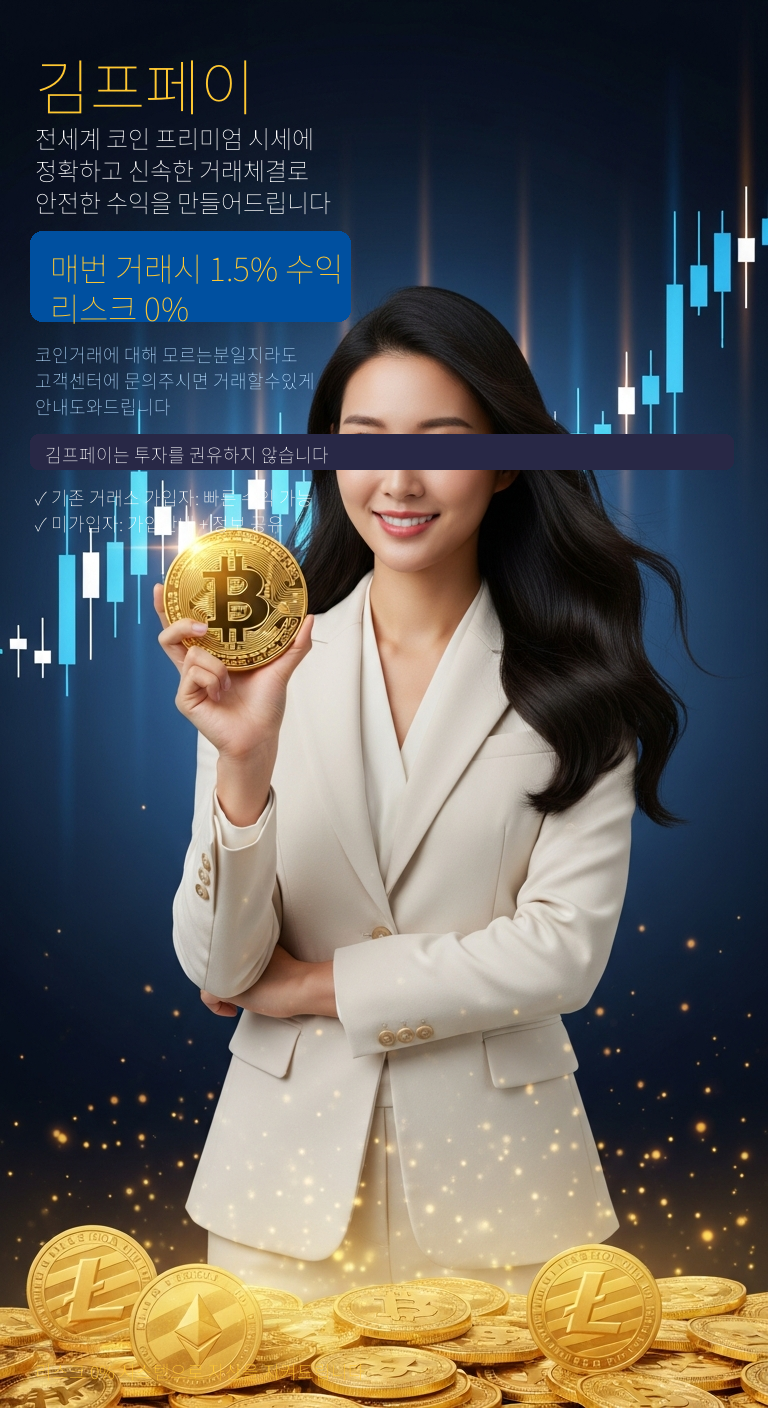
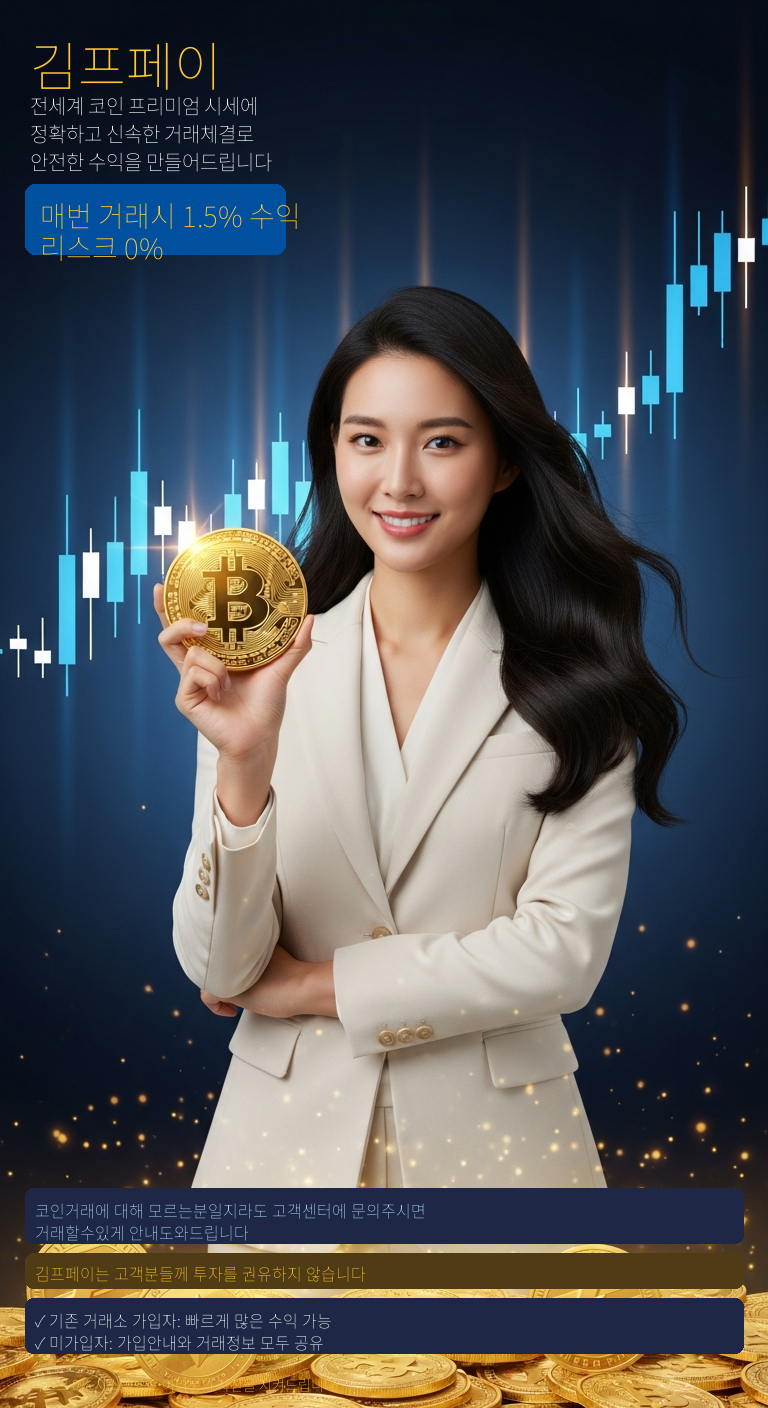
Improve text layout and readability on promotional image
Adjust font sizes, reposition text elements for better visual hierarchy and spacing, and update the Korean text content within the `add_korean_text.py` script to enhance the overall aesthetic and clarity of the promotional image.

Replit-Commit-Author: Agent
Replit-Commit-Session-Id: 337bff7e-522e-4724-8296-76832bff74b9
Replit-Commit-Checkpoint-Type: full_checkpoint
Replit-Commit-Event-Id: 4bbeca22-a287-4022-844d-c67cf83435c3
Replit-Commit-Screenshot-Url: https://storage.googleapis.com/screenshot-production-us-central1/21bf0bfb-32a1-4580-afd2-f0c5e86b27e5/337bff7e-522e-4724-8296-76832bff74b9/sSgNOkk

Changed region(s): [[0.0312, 0.0312, 0.9062, 0.375], [0.0312, 0.8438, 0.9688, 1.0]]

diff --git a/add_korean_text.py b/add_korean_text.py
@@ -11,63 +11,66 @@ width, height = img.size
 
 font_path = "/nix/store/kp07qs4i2g8bcxdzhfrcz8pd84f2s04y-noto-fonts-cjk-sans-2.004/share/fonts/opentype/noto-cjk/NotoSansCJK-VF.otf.ttc"
 
-font_title = ImageFont.truetype(font_path, 60)
-font_large = ImageFont.truetype(font_path, 36)
-font_medium = ImageFont.truetype(font_path, 24)
-font_small = ImageFont.truetype(font_path, 18)
-font_highlight = ImageFont.truetype(font_path, 32)
+font_title = ImageFont.truetype(font_path, 52)
+font_subtitle = ImageFont.truetype(font_path, 20)
+font_highlight = ImageFont.truetype(font_path, 28)
+font_small = ImageFont.truetype(font_path, 16)
+font_footer = ImageFont.truetype(font_path, 14)
 
 gold_color = (255, 200, 50)
 white_color = (255, 255, 255)
 light_blue = (180, 220, 255)
-dark_overlay = (20, 30, 60, 200)
 
 title_text = "김프페이"
-draw.text((35, 40), title_text, font=font_title, fill=gold_color)
+draw.text((30, 25), title_text, font=font_title, fill=gold_color)
 
-headline_lines = [
+subtitle_lines = [
     "전세계 코인 프리미엄 시세에",
     "정확하고 신속한 거래체결로",
     "안전한 수익을 만들어드립니다"
 ]
-y_pos = 120
-for line in headline_lines:
-    draw.text((35, y_pos), line, font=font_medium, fill=white_color)
-    y_pos += 32
+y_pos = 90
+for line in subtitle_lines:
+    draw.text((30, y_pos), line, font=font_subtitle, fill=white_color)
+    y_pos += 28
 
-highlight_y = y_pos + 15
-box_width = 320
-box_height = 90
-draw.rounded_rectangle([(30, highlight_y), (30 + box_width, highlight_y + box_height)], radius=12, fill=(0, 80, 160))
-draw.text((50, highlight_y + 12), "매번 거래시 1.5% 수익", font=font_highlight, fill=gold_color)
-draw.text((50, highlight_y + 52), "리스크 0%", font=font_highlight, fill=gold_color)
+highlight_y = y_pos + 10
+box_width = 260
+box_height = 70
+draw.rounded_rectangle([(25, highlight_y), (25 + box_width, highlight_y + box_height)], radius=10, fill=(0, 80, 160))
+draw.text((40, highlight_y + 10), "매번 거래시 1.5% 수익", font=font_highlight, fill=gold_color)
+draw.text((40, highlight_y + 42), "리스크 0%", font=font_highlight, fill=gold_color)
 
-info_y = highlight_y + box_height + 20
+bottom_section_y = height - 220
+
+info_box_y = bottom_section_y
+draw.rounded_rectangle([(25, info_box_y), (width - 25, info_box_y + 55)], radius=8, fill=(30, 40, 70, 220))
 info_lines = [
-    "코인거래에 대해 모르는분일지라도",
-    "고객센터에 문의주시면 거래할수있게",
-    "안내도와드립니다"
+    "코인거래에 대해 모르는분일지라도 고객센터에 문의주시면",
+    "거래할수있게 안내도와드립니다"
 ]
+info_y = info_box_y + 10
 for line in info_lines:
     draw.text((35, info_y), line, font=font_small, fill=light_blue)
-    info_y += 26
+    info_y += 22
 
-notice_y = info_y + 15
-notice_box_height = 35
-draw.rounded_rectangle([(30, notice_y), (width - 35, notice_y + notice_box_height)], radius=8, fill=(40, 40, 70))
-draw.text((45, notice_y + 7), "김프페이는 투자를 권유하지 않습니다", font=font_small, fill=white_color)
+notice_y = info_box_y + 65
+draw.rounded_rectangle([(25, notice_y), (width - 25, notice_y + 35)], radius=8, fill=(80, 60, 20))
+draw.text((35, notice_y + 8), "김프페이는 고객분들께 투자를 권유하지 않습니다", font=font_small, fill=gold_color)
 
-benefit_y = notice_y + notice_box_height + 15
+benefit_y = notice_y + 45
+draw.rounded_rectangle([(25, benefit_y), (width - 25, benefit_y + 55)], radius=8, fill=(30, 40, 70, 220))
 benefit_lines = [
-    "✓ 기존 거래소 가입자: 빠른 수익 가능",
-    "✓ 미가입자: 가입안내 + 정보 공유"
+    "✓ 기존 거래소 가입자: 빠르게 많은 수익 가능",
+    "✓ 미가입자: 가입안내와 거래정보 모두 공유"
 ]
+by = benefit_y + 10
 for line in benefit_lines:
-    draw.text((35, benefit_y), line, font=font_small, fill=white_color)
-    benefit_y += 26
+    draw.text((35, by), line, font=font_small, fill=white_color)
+    by += 22
 
-footer_y = height - 50
-draw.text((35, footer_y), "리스크 0% 시스템으로 자산을 지켜드립니다", font=font_small, fill=gold_color)
+footer_y = height - 35
+draw.text((30, footer_y), "리스크 0% 시스템으로 여러분의 자산을 지켜드립니다", font=font_footer, fill=gold_color)
 
 img.save(output_path, quality=95)
 print(f"Image saved to: {output_path}")
